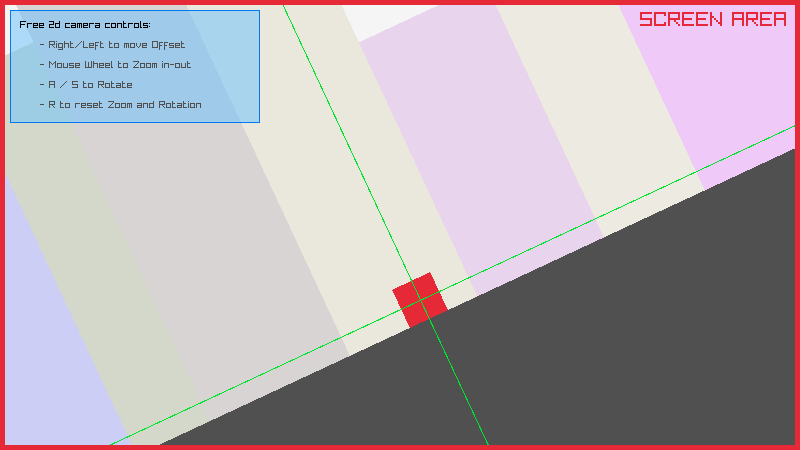
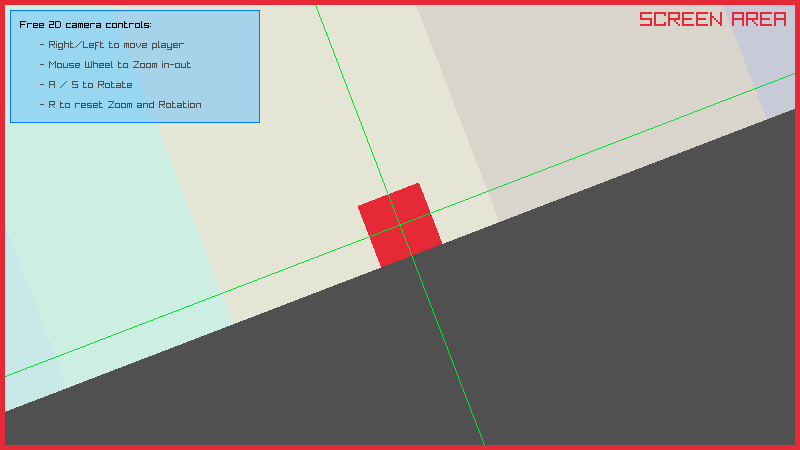
Fix misleading example text. (#5409)

diff --git a/examples/core/core_2d_camera.c b/examples/core/core_2d_camera.c
@@ -125,8 +125,8 @@ int main(void)
             DrawRectangle( 10, 10, 250, 113, Fade(SKYBLUE, 0.5f));
             DrawRectangleLines( 10, 10, 250, 113, BLUE);
 
-            DrawText("Free 2d camera controls:", 20, 20, 10, BLACK);
-            DrawText("- Right/Left to move Offset", 40, 40, 10, DARKGRAY);
+            DrawText("Free 2D camera controls:", 20, 20, 10, BLACK);
+            DrawText("- Right/Left to move player", 40, 40, 10, DARKGRAY);
             DrawText("- Mouse Wheel to Zoom in-out", 40, 60, 10, DARKGRAY);
             DrawText("- A / S to Rotate", 40, 80, 10, DARKGRAY);
             DrawText("- R to reset Zoom and Rotation", 40, 100, 10, DARKGRAY);
